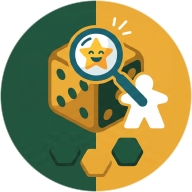
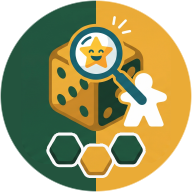
Helle Umrisse der Sechsecke zurueckgeholt
Die Flutfuellung beim Freistellen nahm sie mit: Die Sechsecke ragen unten
aus der Kachel heraus, ihr Umriss beruehrt dort den Seitengrund und
haengt damit am Bildrand. Auf dem gruenen Teil war das linke Sechseck
danach kaum noch zu ahnen.

Nach Helligkeit liesse er sich nicht herausfischen - der Seitengrund ist
mit rund 248 genauso hell wie der Umriss (nachgemessen an der linken
Kachelkante). Die Form verraet ihn: Ohne Umriss ist jedes Sechseck ein
eigener zusammenhaengender Teil, abgetrennt vom grossen Teil aus Kachel
und Inhalt - drei Teile zu je rund 25000 Punkten neben einem zu 710000.
Also alles ausser dem groessten Teil nehmen und den Spalt wieder
auffuellen, 18 Punkte breit (der im Original gemessene Abstand).

Claude-Session: https://claude.ai/code/session_01TEE2VGK7Y2EVfuDspfpgKp

diff --git a/index.html b/index.html
@@ -635,7 +635,7 @@ footer .fassung{margin-top:10px; font-size:12px; opacity:.75}
   <footer>
     <p>Spielerzahlen, Dauer und Anspruch sind Erfahrungswerte — unter „Sammlung bearbeiten“ jederzeit korrigierbar.</p>
     <p>Neues Spiel gekauft? Oben ins Regal stellen. Verliehen und nie wiedergesehen? Entfernen.</p>
-    <p class="fassung">Fassung 2.1.1</p>
+    <p class="fassung">Fassung 2.1.2</p>
   </footer>
 </div>
 

diff --git a/CHANGELOG.md b/CHANGELOG.md
@@ -9,6 +9,15 @@ bei x.y.**Z** wird etwas repariert.
 
 ## [Unveröffentlicht]
 
+## [2.1.2] – 2026-10-12
+
+### Behoben
+
+- **Die drei Sechsecke im Symbol haben ihre hellen Umrisse zurück.** Beim
+  Freistellen des Motivs waren sie mit weggefallen; auf dem grünen Teil war
+  das linke Sechseck danach kaum noch zu ahnen. Jetzt stehen alle drei wieder
+  klar auf der Scheibe.
+
 ## [2.1.1] – 2026-10-12
 
 ### Behoben
@@ -292,7 +301,8 @@ Erste gezählte Fassung. Sie fasst zusammen, was bis hierher entstanden ist.
 - Das App-Symbol wurde von Androids runder Maske beschnitten. Vorder- und
   Hintergrund liegen nun als eigene Ebenen vor.
 
-[Unveröffentlicht]: https://github.com/Dr-Nerdlove/Board-Game-Recommender/compare/v2.1.1...HEAD
+[Unveröffentlicht]: https://github.com/Dr-Nerdlove/Board-Game-Recommender/compare/v2.1.2...HEAD
+[2.1.2]: https://github.com/Dr-Nerdlove/Board-Game-Recommender/releases/tag/v2.1.2
 [2.1.1]: https://github.com/Dr-Nerdlove/Board-Game-Recommender/releases/tag/v2.1.1
 [2.1.0]: https://github.com/Dr-Nerdlove/Board-Game-Recommender/releases/tag/v2.1.0
 [2.0.1]: https://github.com/Dr-Nerdlove/Board-Game-Recommender/releases/tag/v2.0.1

diff --git a/ENTWICKLUNG.md b/ENTWICKLUNG.md
@@ -94,6 +94,14 @@ Drei Dinge, die beim Bauen schiefgingen und wieder schiefgehen können:
   vom Bildrand her (Schwelle 225), danach zwei Punkte abtragen. Nach Farbe
   freistellen geht *nicht*: Der Würfel `(226, 162, 55)` liegt zu dicht am
   Hintergrund-Ocker.
+- **Die hellen Umrisse der Sechsecke fallen dabei mit weg** und müssen
+  zurückgeholt werden, sonst sind die Sechsecke auf dem Grün kaum noch zu
+  ahnen. Sie hängen am Seitengrund, weil die Sechsecke unten aus der Kachel
+  herausragen. Über die Helligkeit geht es nicht — der Seitengrund ist mit
+  rund 248 genauso hell wie der Umriss. Über die Form schon: Ohne Umriss ist
+  jedes Sechseck ein eigener zusammenhängender Teil, abgetrennt vom großen
+  Teil aus Kachel und Inhalt. Also alles außer dem größten Teil nehmen und
+  den Spalt wieder auffüllen, 18 Punkte breit (im Original gemessen).
 - **Erst alles aufbauen, dann die Scheibe ausstanzen.** Das Motiv bringt den
   Kachelgrund mit — der gehört dazu, muss aber mit abgeschnitten werden.
 - **Die beiden Ebenen des adaptiven Symbols füllen beide die ganze
